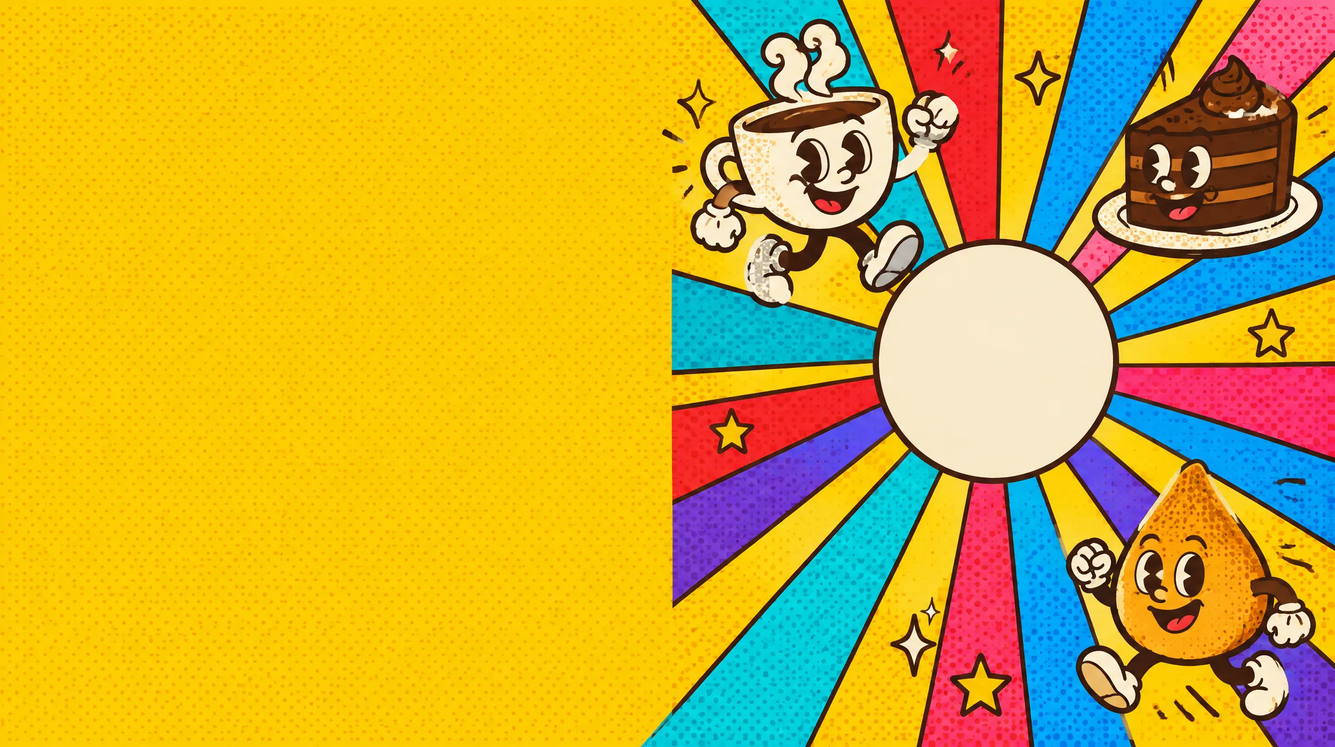
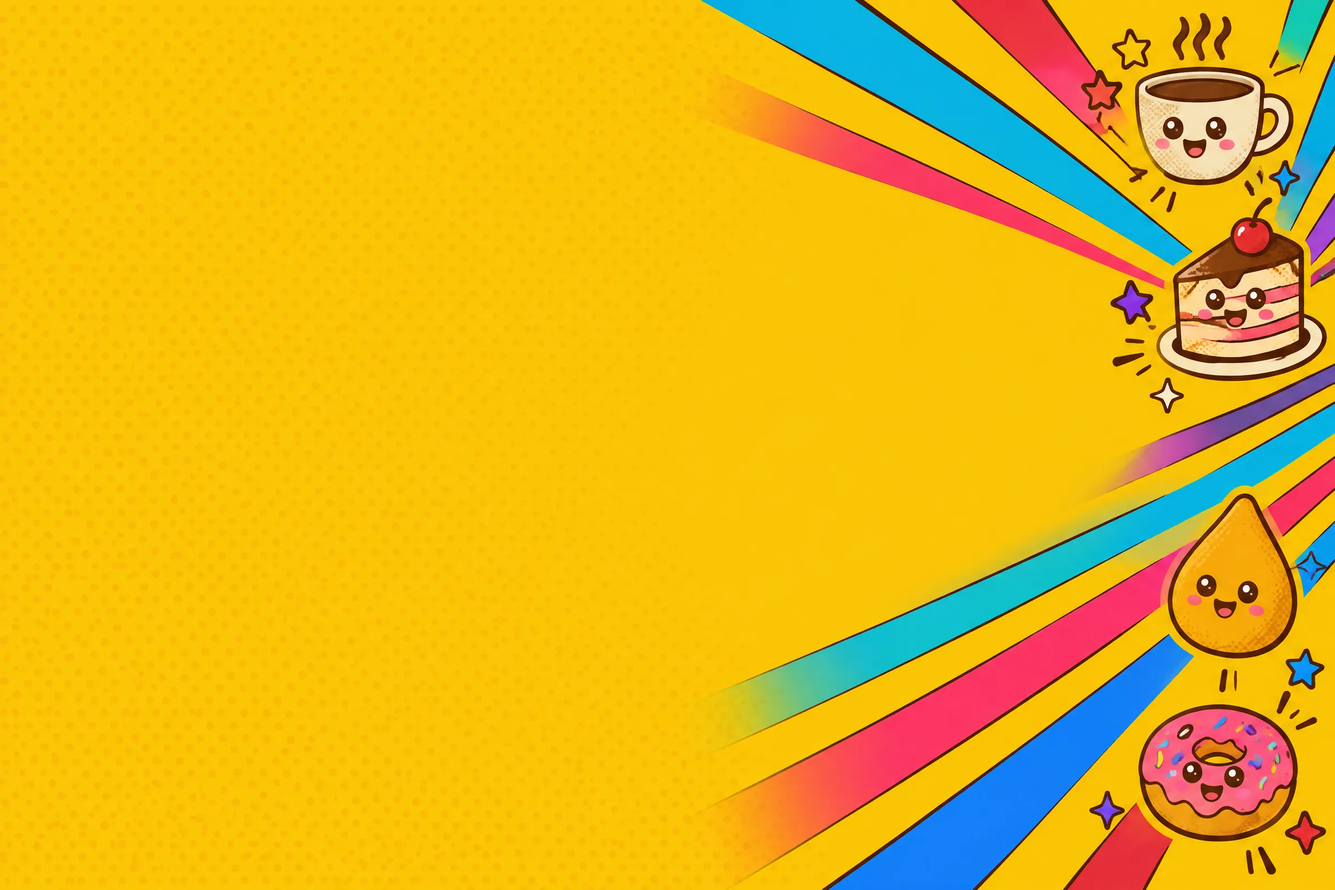
feat(home): fundo da abertura sem imagem de referência
As duas versões com referência foram reprovadas. GPT 2.5 só com o texto:
amarelo #FAC506, raios da paleta da edição saindo da direita, xícara,
bolo, coxinha e donut pequenos na borda e o meio livre para o vídeo.
Fundo ancorado à direita para os doces não saírem do corte.

diff --git a/src/data/imageLibrary.js b/src/data/imageLibrary.js
@@ -341,12 +341,13 @@ const HOME = {
    · marca: o lettering CARTOON da marca oficial (Dropbox F2,
      01_IDENTIDADE_VISUAL/01_MARCA/PNG — o mesmo do selo aprovado), recortado
      da margem transparente e convertido para WebP. Não redesenhar.
-   · fundo: ilustração gerada no Magnific com GPT 2.5 (o modelo das artes
-     aprovadas), com três artes aprovadas como referência (Confirmado
-     Bolomania v05, Stories B02 e B03): amarelo #FAC506 da logo, raios
-     chapados da paleta da edição, xícara, bolo e coxinha no traço borracha.
-     Original em 05_SITE/02_ASSETS/fundo-heroi-home_gpt25_v2b_USADO.png. Sem
-     texto, sem pessoa, sem adereço de animação (decisão de 03/10/2026).
+   · fundo: ilustração gerada no Magnific com GPT 2.5, SEM imagem de
+     referência (as duas tentativas com referência foram reprovadas pelo
+     Wilker em 13/10/2026): amarelo #FAC506 da logo, raios chapados da paleta
+     da edição saindo da direita, xícara, bolo, coxinha e donut pequenos na
+     borda direita, meio livre para o vídeo. 3:2, 2400×1600. Original em
+     05_SITE/02_ASSETS/fundo-heroi-home_gpt25_v3a_USADO.png. Sem texto, sem
+     pessoa, sem adereço de animação (decisão de 03/10/2026).
    · video: o vídeo de lançamento (versão sem "Natal e região", a que está no
      Instagram), reduzido para 720×1280; capa = o quadro de 37,5 s.
    -------------------------------------------------------------------------- */

diff --git a/src/styles/scw-home.css b/src/styles/scw-home.css
@@ -307,7 +307,8 @@
 .hm-abre--edicao.tem-fundo {
   background-image: var(--fundo);
   background-size: cover;
-  background-position: 72% 50%;
+  /* Os doces moram na borda direita do desenho: ancorar ali. */
+  background-position: 100% 50%;
 }
 /* Só acima de 1000px: fora da media query esta regra viria depois da coluna
    única do celular e venceria por ordem (mesma especificidade). */
@@ -419,7 +420,7 @@
   .hm-abre--edicao.tem-fundo .hm-ed__video {
     background-image: var(--fundo-mobile);
     background-size: cover;
-    background-position: 78% 50%;
+    background-position: 100% 50%;
   }
   .hm-ed__tela { height: auto; width: min(66vw, 300px); }
 }
